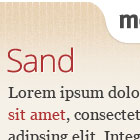
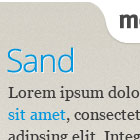
Theme updates
* Sand has changed backgrounds and colors
* Open Sans used for body text
* Airmo and Den fixes for new grid
* Header preview has its own style sheet now, no longer embedded in functions.php

diff --git a/themes/OneMozilla-Air/style.css b/themes/OneMozilla-Air/style.css
@@ -20,6 +20,7 @@ Hover         #2592e6
 
 @import url("../OneMozilla/style.css");
 
+html { background: #20272a; }
 body { color: #b4b4b4; }
 body #page { background-color: #20272a; background-image: url("img/bg-midnight.png"); }
 
@@ -34,7 +35,7 @@ body #page { background-color: #20272a; background-image: url("img/bg-midnight.p
 
 
 /* @Main feature *********/
-.main-feature { background: #eee; color: #506168; padding: 60px 48px 48px 232px; margin: 0 -48px 48px; position: relative; min-height: 160px; }
+.main-feature { background: #eee; color: #506168; padding: 60px 30px 30px 232px; margin: 0 -30px 30px; position: relative; min-height: 160px; }
 .main-feature .feature-type { font-size: 16px; text-transform: uppercase; position: absolute; left: 48px; top: 24px; }
 .main-feature .entry-title { width: 100%; float: none; }
 .main-feature .entry-summary { position: static; padding: 0; min-height: 0; }
@@ -87,7 +88,7 @@ h1, h2, h3, h4, h5, h6 { color: #b4b4b4; text-shadow: 0 1px 0 rgba(0,0,0,0.3); }
 .entry-content a:hover img, .entry-content a:focus img, .entry-content a:active img, 
 .entry-summary a:hover img, .entry-summary a:focus img, .entry-summary a:active img { background-color: #2592e6; }
 
-.entry-summary { padding-left: 120px; position: relative; min-height: 92px; }
+.entry-summary { padding-left: 110px; position: relative; min-height: 92px; }
 .entry-summary .wp-post-image { position: absolute; left: 0; top: 0; }
 
 .entry-meta { border-bottom: 1px solid rgba(197,204,201,.1); }
@@ -101,7 +102,7 @@ body .entry-comments a { background-image: url(img/icn-comment.png); }
 legend { color: #b4b4b4; } /* For IE */
 
 /* @Sidebar *********/
-#content-sub { background: #2d373b; padding: 24px 24px 4em; margin-right: -24px; }
+#content-sub { background: #2d373b; width: 160px; padding: 30px 30px 4em; margin-right: -40px; }
 .widget_nav_menu li, .widget_categories li { border-bottom-color: #48585e; }
 
 .more-posts .hentry { position: relative; border-bottom: 1px dotted #48585e; margin-bottom: 10px; padding: 0 0 10px 0; clear: both; }
@@ -178,8 +179,8 @@ label .note { color: #afb6bb; }
 .entry-posted .posted-year { display: inline; font-size: 1em; }
 
 /*** Entry @Header */
-.post .entry-header { padding-left: 0; }
-.entry-title { min-height: 0; }
+.post .entry-header { padding: 0; }
+.entry-title { min-height: 0; margin: 0; }
 .show-comments.no-author .entry-title { float: none; width: auto; }
 .single-post .entry-title, .page .entry-title { font-size: 1.75em; letter-spacing: -0.5px; }
 
@@ -256,9 +257,9 @@ px      68    160    252    344    436    528    620    712    */
   .main-feature { background: #eee; color: #506168; padding: 60px 0 24px 208px; margin: 0 0 48px -24px; position: relative; min-height: 160px; }
   .main-feature .feature-type { left: 24px; }
   .main-feature .entry-summary { position: static; padding: 0 24px 0 0; }
-  .main-feature .entry-summary .wp-post-image { position: absolute; left: 24px; top: 60px; border: 0; margin: 0; }
+  .main-feature .entry-summary .wp-post-image { position: absolute; left: 20px; top: 60px; border: 0; margin: 0; }
 
-  #content-sub { background: #2d373b; padding: 12px 12px 4em; margin-right: -24px; }
+  #content-sub { background: #2d373b; padding: 15px 15px 4em; margin-right: -30px; }
 
 }
 
@@ -272,20 +273,20 @@ px      68    160    252    */
 
 @media only screen and (max-width: 767px) {
   
-  .main-feature { padding: 240px 12px 12px; margin: 0 -12px 48px -12px; }
-  .main-feature .feature-type { left: 12px; }
+  .main-feature { padding: 60px 20px 20px; margin: 0 -20px 48px -20px; }
+  .main-feature .feature-type { left: 20px; }
   .main-feature .entry-title { font-size: 24px; }
-  .main-feature .entry-summary { position: static; padding: 0 24px 0 0; }
-  .main-feature .entry-summary .wp-post-image { left: 12px; top: 60px; border: 0; margin: 0; }
+  .main-feature .entry-summary { position: static; padding: 0 20px 0 0; }
+  .main-feature .entry-summary .wp-post-image { display: none; }
   
   .entry-summary { padding-left: 0; position: static; min-height: 92px; }
   .entry-summary .wp-post-image { position: static; float: left; margin: 0 12px .5em 0; }
 
-  #content-sub { margin-left: -24px; margin-right: -24px; }
+  #content-sub { width: auto; margin-left: -20px; margin-right: -20px; }
 
   .more-posts .hentry { padding: 0 0 10px 68px; min-height: 48px; }
   .more-posts .video-thumb { position: absolute; left: 0; top: 0; width: 48px; height: 48px; }
-  .more-posts .video-thumb img { margin-top:0; width: 48px; height: 48px; }
+  .more-posts .video-thumb img { margin-top:0; width: 48px; height: 48px; max-width: 48px; }
  
 }
 
@@ -299,10 +300,10 @@ px      68    160    252    344    436    */
 
 @media only screen and (min-width: 480px) and (max-width: 767px) {
 
-  .main-feature { background: #eee; color: #506168; padding: 60px 12px 12px 184px; margin: 0 -12px 48px -12px; position: relative; min-height: 92px; }
-  .main-feature .feature-type { left: 12px; }
+  .main-feature { background: #eee; color: #506168; padding: 60px 20px 20px 180px; margin: 0 -20px 48px -20px; position: relative; min-height: 92px; }
+  .main-feature .feature-type { left: 20px; }
   .main-feature .entry-title { font-size: 24px; }
   .main-feature .entry-summary { position: static; padding: 0 24px 0 0; }
-  .main-feature .entry-summary .wp-post-image { width: 148px; }
+  .main-feature .entry-summary .wp-post-image { left: 20px; display: inline; width: 148px; }
     
 }

diff --git a/themes/OneMozilla/style.css b/themes/OneMozilla/style.css
@@ -232,9 +232,9 @@ a:active {
 #masthead {
   background-position: right top;
   background-repeat: no-repeat;
-  margin: 0;
+  margin: 0 30px 0 0;
   min-height: 120px;
-  padding: 72px 30px 48px;
+  padding: 72px 0 48px 30px;
   position: relative;
 }
 #masthead hgroup {
@@ -264,7 +264,7 @@ a:active {
 #masthead #tabzilla {
   border: 0;
   position: absolute;
-  right: 20px;
+  right: 0;
   top: 0;
 }
 
@@ -327,9 +327,12 @@ a:active {
   margin-top: .35em;
 }
 
-.widget_nav_menu, 
+.widget_nav_menu,
 .widget_categories {
-  font: 1.285em/1.1 "Open Sans Light", "Lucida Sans", "Lucida Grande", "Lucida Sans Unicode", Calibri, sans-serif;
+  font: 1.285em/1.1 "Open Sans", "Lucida Sans", "Lucida Grande", "Lucida Sans Unicode", Calibri, sans-serif;
+}
+.widget_nav_menu {
+  font-family: "Open Sans Light", "Lucida Sans", "Lucida Grande", "Lucida Sans Unicode", Calibri, sans-serif;
 }
 .widget_categories {
   font-size: 1em;
@@ -1372,13 +1375,15 @@ input:-moz-placeholder {
 
   #masthead {
     background-image: none !important;
-    border-bottom: 1px solid;
-    margin-bottom: 24px;
+    margin: 0 0 24px 0;
     min-height: 0;
-    padding: 58px 20px 24px;
+    padding: 58px 20px 20px;
   }
   #masthead hgroup {
+    float: none;
     padding-right: 0;
+    padding-bottom: 20px;
+    border-bottom: 1px solid;
   }
   #site-title {
     font-size: 2em;

diff --git a/themes/OneMozilla-Den/style.css b/themes/OneMozilla-Den/style.css
@@ -57,8 +57,8 @@ Version:        1.0
 .get-firefox a.go:after { content: "\00A0\00BB"; font-size: 1.2em; font-weight: bold; line-height: .8; } /* nbsp raquo */
 
 /* @Newsletter @Subscribe *********/
-.newsletter-sub a { padding: 12px 12px 85px; background: url(img/mail-small.png) 90% 90% no-repeat; background-color: rgba(255,255,255,.3); border: 1px solid #dbdbdb; border-radius: 6px; box-shadow: inset rgba(0,0,0,0.1) 0 0 4px, rgba(255,255,255, 0.1) 0 1px 0; }
-.newsletter-sub a { display: block; font: 1em "Open Sans Light", sans-serif; }
+.newsletter-sub a { padding: 15px 15px 85px; background: url(img/mail-small.png) 90% 90% no-repeat; background-color: rgba(255,255,255,.3); border: 1px solid #dbdbdb; border-radius: 6px; box-shadow: inset rgba(0,0,0,0.1) 0 0 4px, rgba(255,255,255, 0.1) 0 1px 0; }
+.newsletter-sub a { display: block; font-size: 16px; }
 
 
 

diff --git a/themes/OneMozilla/colors/sand/sand.css b/themes/OneMozilla/colors/sand/sand.css
@@ -2,34 +2,35 @@
 "Sand" - a warm color scheme for the One Mozilla theme
 
 @@Colors -
-Tan           #f5f1e8
-Link          #af3232
-Hover         #962c2c
+Tan           #f2f0e9
+Link          #0096dd
+Hover         #0073aa
 */
 
 #page { 
-  background-color: #f5f1e8; 
-  background-image: url("bg-sand.png"); 
+  background-color: #f2f0e9; 
+  background-image: url("bg-gradient-sand.png"), url("bg-sand.png");
+  background-repeat: repeat-x, repeat;
 }
 #site-description { 
-  color: #a68e87; 
+  color: #484848; 
 }
 #site-title a:hover, 
 #site-title a:focus, 
 #site-title a:active {
-  color: #af3232;
+  color: #0073aa;
 }
 
 /* @Links */
 a:link, 
 a:visited { 
-  color: #af3232; 
+  color: #0096dd; 
   text-decoration: none; 
 }
 a:hover, 
 a:focus, 
 a:active { 
-  color: #962c2c; 
+  color: #0073aa; 
   text-decoration: underline; 
 }
 

diff --git a/themes/OneMozilla/colors/obsidian/obsidian.css b/themes/OneMozilla/colors/obsidian/obsidian.css
@@ -78,6 +78,13 @@ h1, h2, h3, h4, h5, h6 {
 }
 .featured-posts {
   background-color: #2e475a;
+  -webkit-box-shadow: inset rgba(0,0,0, 0.1) 0 0 4px, rgba(255,255,255, 0.1) 0 1px 0;
+  -o-box-shadow: inset rgba(0,0,0,0.1) 0 0 4px, rgba(255,255,255, 0.1) 0 1px 0;
+  box-shadow: inset rgba(0,0,0,0.1) 0 0 4px, rgba(255,255,255, 0.1) 0 1px 0;
+}
+.featured-posts .wp-post-image {
+  background-color: #57758c;
+  border-color: #57758c;
 }
 
 legend { 

diff --git a/themes/OneMozilla/colors/stone/stone.css b/themes/OneMozilla/colors/stone/stone.css
@@ -7,6 +7,10 @@ Link          #2983c8
 Hover         #20679e
 */
 
+html {
+  background: #f9f9f9;
+}
+
 #page { 
   background-color: #f9f9f9; 
   background-image: url("bg-stone.png"); 

diff --git a/themes/OneMozilla/colors/sky/sky.css b/themes/OneMozilla/colors/sky/sky.css
@@ -7,6 +7,9 @@ Link          #67a7d0
 Hover         #4090c4
 */
 
+html {
+  background: #eee;
+}
 #page { 
   background-color: #eee; 
   background-image: url("bg-sky.png"); 

diff --git a/themes/OneMozilla/functions.php b/themes/OneMozilla/functions.php
@@ -262,69 +262,10 @@ if (function_exists('onemozilla_get_theme_options')) { // fail gracefully if we 
 $header_image = get_header_image();
 ?>
 	<style type="text/css">
-	@font-face {
-    font-family: 'Open Sans Light';
-    src: url('<?php echo get_template_directory_uri() ?>/css/fonts/OpenSans-Light-webfont.eot');
-    src: url('<?php echo get_template_directory_uri() ?>/css/fonts/OpenSans-Light-webfont.eot?#iefix') format('embedded-opentype'),
-         url('<?php echo get_template_directory_uri() ?>/css/fonts/OpenSans-Light-webfont.ttf') format('truetype'),
-         url('<?php echo get_template_directory_uri() ?>/css/fonts/OpenSans-Light-webfont.woff') format('woff');
-    font-weight: normal;
-    font-style: normal;
-  }
-	.appearance_page_custom-header #header-preview {
-    position: relative;
-    max-width: 952px;
-    min-width: 712px
-    height: 240px;
-    overflow: hidden;
-    padding: 0 24px;
-    margin-left: -80px;
-		border: 0;
-		box-shadow: inset 0 0 5px rgba(0,0,0,.2);
-    background: transparent url("<?php echo get_template_directory_uri() . '/colors/'.$options['color_scheme'].'/bg-'.$options['color_scheme'].'.png'; ?>") center top repeat-x;
-<?php if ($options['color_scheme'] == 'obsidian') : ?>
-    color: #c5ccd2;
-<?php else : ?>
-    color: #333;
-<?php endif; ?>
-	}
+	@import url(<?php echo get_template_directory_uri() . '/colors/'.$options['color_scheme'].'/'.$options['color_scheme'].'-header-preview.css'; ?>);
 	#header-preview .header {
-    position: relative;
-    font-size: 16px;
-    padding: 72px 340px 24px 0;
     background: url("<?php echo esc_url( $header_image ); ?>") right top no-repeat;
 	}
-	#header-preview h1,
-	#header-preview h2 {
-    line-height: 1;
-    padding: 0;
-    font-family: "Open Sans Light", "Lucida Sans", "Lucida Grande", "Lucida Sans Unicode", Verdana, sans-serif; 
-    font-weight: normal; 
-<?php if ($options['color_scheme'] == 'obsidian') : ?>
-    text-shadow: 0 1px 0 rgba(0,0,0,0.3);
-<?php else : ?>
-    text-shadow: 0 1px 0 rgba(255,255,255,0.75);
-<?php endif; ?>
-	}
-	#header-preview h1 {
-		font-size: 4.5em; letter-spacing: -3px; margin: 0 0 .15em -5px; color: inherit; min-width: 475px;
-	}
-	#header-preview h2 {
-    font-size: 2em; letter-spacing: -1px; margin: 0 0 .25em; opacity: .8; color: inherit; min-width: 475px;
-	}
-	#faux-tabzilla {
-    background: url("<?php echo get_template_directory_uri() ?>/img/tab.png") repeat scroll 0 0 transparent;
-    display: block;
-    float: right;
-    height: 45px;
-    overflow: hidden;
-    position: absolute;
-    right: 0;
-    top: 0;
-    text-indent: -999em;
-    width: 150px;
-    z-index: 999;
-}
 	</style>
 <?php
 }
